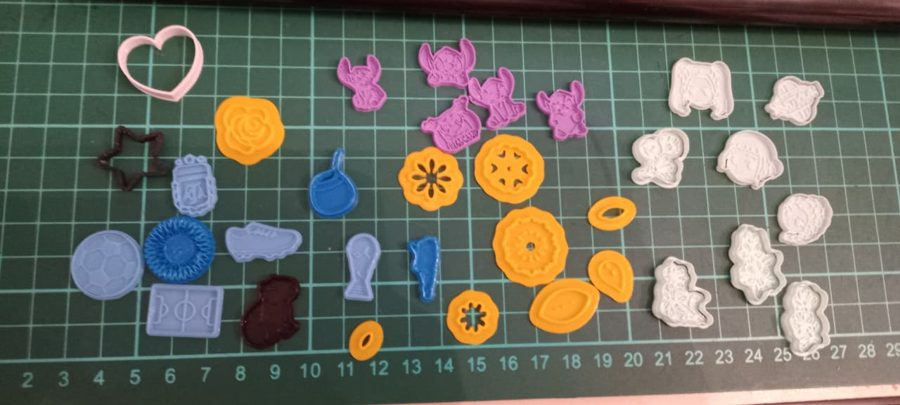
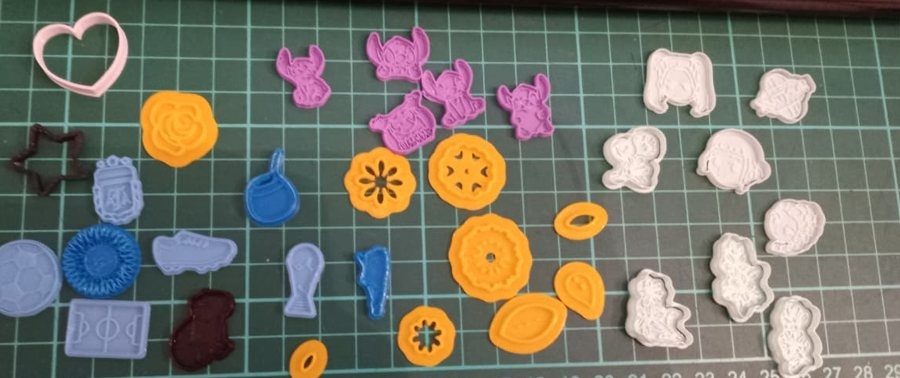
Mini cortantes: fotos recortadas y derechas, queda lo mejor
Claude-Session: https://claude.ai/code/session_01HwRjAA5ZpNZnw9az1WEFLP

diff --git a/index.html b/index.html
@@ -446,7 +446,7 @@ html{overflow-x:hidden;overflow-x:clip}
           <video src="videos/llaveros.mp4" poster="videos/llaveros.jpg" muted loop playsinline preload="metadata" aria-hidden="true"></video>
           <div class="meta"><h3>Llaveros</h3><p>Con tu nombre, tu inicial o para todo el grupo.</p></div>
         </article>
-        <article class="reel vid" tabindex="0" data-historia="cortantes.mp4,cortantes-impresos,cortantes-argentina,cortantes-futbol,cortantes-flores-set,cortantes-sets,cortantes-mesa,cortantes-stitch,cortantes-detalle,lampara-luna,servilletero-montanas,maceta-molde,molde-maceta,senaladores,clips-flores.mp4,sujetapaginas-nombre">
+        <article class="reel vid" tabindex="0" data-historia="cortantes.mp4,cortantes-impresos,cortantes-argentina,cortantes-futbol,cortantes-flores-set,cortantes-sets,cortantes-mesa,cortantes-stitch,lampara-luna,servilletero-montanas,maceta-molde,molde-maceta,senaladores,clips-flores.mp4,sujetapaginas-nombre">
           <video src="videos/cortantes.mp4" poster="videos/cortantes.jpg" muted loop playsinline preload="metadata" aria-hidden="true"></video>
           <div class="meta"><h3>Casa y regalos</h3><p>Cortantes, sellos, lámparas, macetas y detalles para regalar.</p></div>
         </article>
@@ -550,10 +550,9 @@ html{overflow-x:hidden;overflow-x:clip}
           <figure class="foto" data-cat="casa" tabindex="0" role="button" aria-label="Ver grande: Cortantes argentinos: escarapela, sol, mapa, bandera y Messi"><img src="fotos/cortantes-argentina.jpg" alt="Cortantes argentinos: escarapela, sol, mapa, bandera y Messi" width="612" height="781" loading="lazy"><figcaption>Cortantes argentinos: escarapela, sol, mapa, bandera y Messi</figcaption></figure>
           <figure class="foto" data-cat="casa" tabindex="0" role="button" aria-label="Ver grande: Cortantes de fútbol: botín, cancha, pelota y la Copa"><img src="fotos/cortantes-futbol.jpg" alt="Cortantes de fútbol: botín, cancha, pelota y la Copa" width="462" height="463" loading="lazy"><figcaption>Cortantes de fútbol: botín, cancha, pelota y la Copa</figcaption></figure>
           <figure class="foto" data-cat="casa" tabindex="0" role="button" aria-label="Ver grande: Set de cortantes de flores, rosas y hojas"><img src="fotos/cortantes-flores-set.jpg" alt="Set de cortantes de flores, rosas y hojas" width="524" height="624" loading="lazy"><figcaption>Set de cortantes de flores, rosas y hojas</figcaption></figure>
-          <figure class="foto" data-cat="casa" tabindex="0" role="button" aria-label="Ver grande: Mini cortantes para galletitas: Argentina, caritas y Stitch"><img src="fotos/cortantes-sets.jpg" alt="Mini cortantes para galletitas: Argentina, caritas y Stitch" width="900" height="405" loading="lazy"><figcaption>Mini cortantes para galletitas: Argentina, caritas y Stitch</figcaption></figure>
-          <figure class="foto" data-cat="casa" tabindex="0" role="button" aria-label="Ver grande: Mini cortantes recién impresos"><img src="fotos/cortantes-mesa.jpg" alt="Mini cortantes recién impresos" width="900" height="405" loading="lazy"><figcaption>Mini cortantes recién impresos</figcaption></figure>
-          <figure class="foto" data-cat="casa" tabindex="0" role="button" aria-label="Ver grande: Mini cortantes de Stitch"><img src="fotos/cortantes-stitch.jpg" alt="Mini cortantes de Stitch" width="405" height="900" loading="lazy"><figcaption>Mini cortantes de Stitch</figcaption></figure>
-          <figure class="foto" data-cat="casa" tabindex="0" role="button" aria-label="Ver grande: Mini cortantes de cerca: escarapela, mate, rosa y Stitch"><img src="fotos/cortantes-detalle.jpg" alt="Mini cortantes de cerca: escarapela, mate, rosa y Stitch" width="405" height="900" loading="lazy"><figcaption>Mini cortantes de cerca: escarapela, mate, rosa y Stitch</figcaption></figure>
+          <figure class="foto" data-cat="casa" tabindex="0" role="button" aria-label="Ver grande: Mini cortantes para galletitas: Argentina, caritas y Stitch"><img src="fotos/cortantes-sets.jpg" alt="Mini cortantes para galletitas: Argentina, caritas y Stitch" width="900" height="440" loading="lazy"><figcaption>Mini cortantes para galletitas: Argentina, caritas y Stitch</figcaption></figure>
+          <figure class="foto" data-cat="casa" tabindex="0" role="button" aria-label="Ver grande: Mini cortantes recién impresos"><img src="fotos/cortantes-mesa.jpg" alt="Mini cortantes recién impresos" width="900" height="378" loading="lazy"><figcaption>Mini cortantes recién impresos</figcaption></figure>
+          <figure class="foto" data-cat="casa" tabindex="0" role="button" aria-label="Ver grande: Mini cortantes de Stitch"><img src="fotos/cortantes-stitch.jpg" alt="Mini cortantes de Stitch" width="500" height="540" loading="lazy"><figcaption>Mini cortantes de Stitch</figcaption></figure>
           <figure class="foto" data-cat="juguetes" tabindex="0" role="button" aria-label="Ver grande: Figuras para pintar: dinosaurios"><img src="fotos/pintar-dinos.jpg" alt="Figuras para pintar: dinosaurios" width="405" height="900" loading="lazy"><figcaption>Figuras para pintar: dinosaurios</figcaption></figure>
           <figure class="foto" data-cat="juguetes" tabindex="0" role="button" aria-label="Ver grande: Figuras para pintar: león, mono, zorro y mariposa"><img src="fotos/pintar-animales.jpg" alt="Figuras para pintar: león, mono, zorro y mariposa" width="405" height="900" loading="lazy"><figcaption>Figuras para pintar: león, mono, zorro y mariposa</figcaption></figure>
           <figure class="foto" data-cat="juguetes" tabindex="0" role="button" aria-label="Ver grande: Figuras para pintar de Hello Kitty"><img src="fotos/pintar-kitty.jpg" alt="Figuras para pintar de Hello Kitty" width="405" height="900" loading="lazy"><figcaption>Figuras para pintar de Hello Kitty</figcaption></figure>
